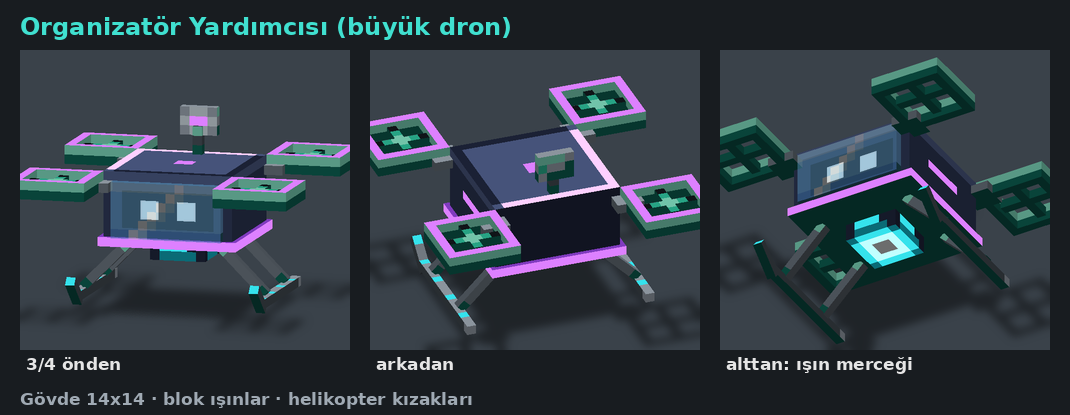
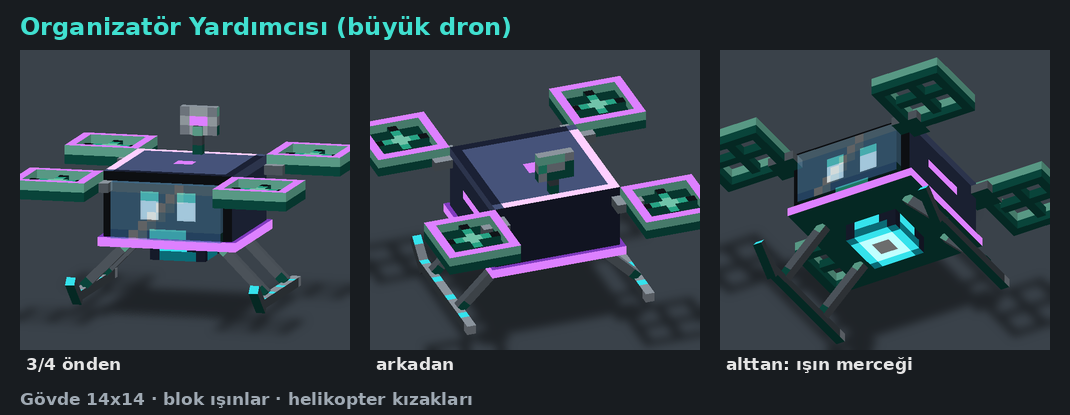
Bütün dronlarda çerçevesiz tam ekran yüz; Kılıçlı 2 piksellik kızgın gözler, yanaklar dış köşe altında
Claude-Session: https://claude.ai/code/session_016dSUtqjRQFdnbyLYXoqgnG

Changed region(s): [[0.0925, 0.4048, 0.2159, 0.5783], [0.7402, 0.2892, 0.8636, 0.4048], [0.7402, 0.4337, 0.8019, 0.4916]]

diff --git a/aqualit/tasarim/evcil.py b/aqualit/tasarim/evcil.py
@@ -48,13 +48,9 @@ from robot import plate, put, G
 
 
 def yuz6(renk='M', sert=False):
-    """Mimar dronundaki yüz (6x5): iki dik göz, gülen ağız, pembe yanaklar. sert: kısık gözler, düz ağız."""
-    g = plate(6, 5, renk, top='H', bottom='D', left='H', right='D')
-    put(g, ['WkkW', 'WkkW'] if not sert else ['kkkk', 'WkkW'], 1, 1)
-    g[3][2] = g[3][3] = 'k'
-    if sert:
-        g[3][1] = g[3][4] = 'R'      # kırmızı yanak işareti yalnız Kılıçlı'nın imzası
-    return g
+    """Çerçevesiz tam ekran yüz (6x5)."""
+    from ortak import YUZ6, YUZ6_SERT
+    return [list(r) for r in (YUZ6_SERT if sert else YUZ6)]
 
 
 def govde6(f, renk='M', sert=False, y0=3):
@@ -63,7 +59,7 @@ def govde6(f, renk='M', sert=False, y0=3):
     yan[2][2] = yan[2][3] = 'L'
     kutu(f, 'g', 'govde', (-3, y0, -3), (3, y0 + 5, 3), base=renk, front=yuz6(renk, sert), left=yan,
          right=[r[:] for r in yan], back=plate(6, 5, renk), top=plate(6, 6, 'L', top='H', bottom='M', left='H', right='M'),
-         glow='W')
+         glow='WL')
 
 
 def madenci(f):
@@ -183,15 +179,8 @@ def kilicli(f):
 
 def organizator(f, cam=True):
     # dik duran ince tablet (ekranı öne bakar); cam ekranın ardında Mimar dronundaki gibi gözler; üstte iki pervane
-    on = fill(8, 6, '1')
-    for x in range(8):
-        on[0][x] = '3'; on[5][x] = 'P'
-    for y in range(1, 5):
-        for x in range(1, 7):
-            on[y][x] = 'k'
-    put(on, ['WkkW', 'WkkW'], 2, 1)
-    on[3][3] = on[3][4] = 'k'
-    kutu(f, 'g', 'tablet', (-4, 3, -1), (4, 9, 1), base='1', front=on, glow='WP',
+    on = [list(r) for r in ('kkkkkkkk', 'kkLkkLkk', 'kkWkkWkk', 'kkWkkWkk', 'kkkLLkkk', 'kkkkkkkk')]
+    kutu(f, 'g', 'tablet', (-4, 3, -1), (4, 9, 1), base='1', front=on, glow='WLP',
          top=fill(8, 2, '3'), back=fill(8, 6, '2'))
     if cam:
         kutu(f, 'g', 'cam', (-3, 4, 1), (3, 8, 2), base='<', front=rows('~9~<<<', '<<<<<<', '<<<<<<', '^^^^^^'))
@@ -212,8 +201,8 @@ def portalci(f):
         kutu(f, 'halka', 'h_' + nm, aa, bb, base='ğ', glow='ğüÇ',
              front=[['ü' if (i + j) % 3 == 0 else 'ğ' for i in range(w_)] for j in range(h_)],
              back=[['ü' if (i + j) % 3 == 1 else 'ğ' for i in range(w_)] for j in range(h_)])
-    kutu(f, 'g', 'kure', (-2.5, 4.5, -2.5), (2.5, 8.5, 2.5), base='3', front=rows('33333', '3W3W3', '3W3W3', '33333'),
-         glow='Wü', top=rows('3üüü3', 'ü333ü', 'ü333ü', 'ü333ü', '3üüü3'))
+    kutu(f, 'g', 'kure', (-2.5, 4.5, -2.5), (2.5, 8.5, 2.5), base='3', front=rows('kkkkk', 'kWkWk', 'kWkWk', 'kkLkk'),
+         glow='WüL', top=rows('3üüü3', 'ü333ü', 'ü333ü', 'ü333ü', '3üüü3'))
     kutu(f, 'g', 'iz', (-0.5, 1, -0.5), (0.5, 2, 0.5), base='ü', glow='ü')
 
 

diff --git a/aqualit/tasarim/portalci.py b/aqualit/tasarim/portalci.py
@@ -30,14 +30,10 @@ def model_portalci(cam=True, t=0.0):
     f.bone('root', None, (0, 0, 0))
     f.bone('govde', 'root', (0, 10, 0))
     # gövde = robot kafası boyunda kutu (x -6..6, y 6..15, z -5..5)
-    on = fill(12, 9, 'M')
-    for x in range(12):
-        on[0][x] = 'H'; on[8][x] = 'D'
-    for y in range(2, 7):
-        for x in range(1, 11):
-            on[y][x] = 'k'
+    on = fill(12, 9, 'k')                 # çerçevesiz tam ekran, robot gözleri
     over(on, rows('LWL', 'WWW', 'WWW', 'LWL'), 2, 2)
     over(on, rows('LWL', 'WWW', 'WWW', 'LWL'), 7, 2)
+    over(on, rows('LL'), 5, 7)
     yan = fill(10, 9, 'M')
     for x in range(10):
         yan[0][x] = 'H'; yan[8][x] = 'D'
@@ -45,7 +41,7 @@ def model_portalci(cam=True, t=0.0):
     ust = panel(12, 10, 'L', t='H', b='M', l='H', r='M')
     over(ust, rows('ğğ', 'ğğ'), 5, 4)
     kutu(f, 'govde', 'govde', (-6, 6, -5), (6, 15, 5), base='M', front=on, left=yan, right=[r[:] for r in yan],
-         back=fill(12, 9, 'D'), top=ust, glow='Wğü')
+         back=fill(12, 9, 'D'), top=ust, glow='WLğü')
     # mor portal şeridi (gövdenin altında) ve alında portal taşı
     kutu(f, 'govde', 'serit', (-6.5, 6, -5.5), (6.5, 7, 5.5), base='ğ', glow='ğ', top=fill(13, 11, 'ş'))
     kutu(f, 'govde', 'alin', (-1, 13, 5), (1, 15, 6), base='ğ', glow='ğü', front=rows('üğ', 'ğş'))

diff --git a/aqualit/tasarim/yardimci.py b/aqualit/tasarim/yardimci.py
@@ -14,14 +14,10 @@ def yardimci(cam=True):
     f.bone('root', None, (0, 0, 0))
     f.bone('govde', 'root', (0, 10, 0))
     # gövde
-    on = fill(14, 8, '1')
-    for x in range(14):
-        on[0][x] = '3'; on[7][x] = '2'
-    for y in range(2, 6):
-        for x in range(2, 12):
-            on[y][x] = 'k'
-    over(on, rows('WW', 'WW'), 4, 3)        # gözler (camın ardında)
-    over(on, rows('WW', 'WW'), 8, 3)
+    on = fill(14, 8, 'k')                 # çerçevesiz tam ekran
+    over(on, rows('LL', 'WW', 'WW'), 4, 2)
+    over(on, rows('LL', 'WW', 'WW'), 8, 2)
+    over(on, rows('LLLL'), 5, 6)
     yan = fill(14, 8, '1')
     hline(yan, 0, '3') if False else None
     for x in range(14):
@@ -30,7 +26,7 @@ def yardimci(cam=True):
     ust = panel(14, 14, '3', t='Z', b='2', l='Z', r='2')
     over(ust, rows('PP', 'PP'), 6, 6)
     kutu(f, 'govde', 'govde', (-7, 6, -7), (7, 14, 7), base='1', front=on, left=yan, right=[r[:] for r in yan],
-         back=fill(14, 8, '2'), top=ust, glow='WPZ')
+         back=fill(14, 8, '2'), top=ust, glow='WLPZ')
     # mor şerit (Organizatör) ve yan ışıklar
     kutu(f, 'govde', 'serit', (-7.5, 6, -7.5), (7.5, 7, 7.5), base='P', glow='P', top=fill(15, 15, 'p'))
     # alt: ışın merceği (halka + parlayan iç) ve iki kıskaç

diff --git a/aqualit/addon/gen/dron.py b/aqualit/addon/gen/dron.py
@@ -31,11 +31,8 @@ BONE = {'govde': 'body', 'baret_kenar': 'hat', 'baret_tepe': 'hat', 'direk': 'ha
 
 
 def parts():
-    face = plate(6, 5, 'M', top='H', bottom='D', left='H', right='D')
-    put(face, ['WkkW', 'WkkW'], 1, 1)   # iki göz, arası koyu vizör
-    face[3][2] = 'k'                    # gülen ağız
-    face[3][3] = 'k'
-    # (v0.4: kırmızı yanaklar kaldırıldı; yalnız Kılıçlı'nın imzası)
+    # v0.4: çerçevesiz tam ekran yüz: dik ışıklı gözler (üstte parlama), küçük ışıklı gülüş; kırmızı yanak yok
+    face = [list(r) for r in ('kkkkkk', 'kLkkLk', 'kWkkWk', 'kWkkWk', 'kkLLkk')]
     side = plate(6, 5, 'M', top='H', bottom='D', left='L', right='D')
     side[2][2] = 'L'
     side[2][3] = 'L'
@@ -71,8 +68,8 @@ def parts():
 def glow(p, face, g):
     m = [[False] * len(g[0]) for _ in g]
     if p.name == 'govde' and face == 'front':
-        for y in range(1, 3):
-            for x in range(1, 5):
+        for y in range(len(g)):
+            for x in range(len(g[0])):
                 m[y][x] = g[y][x] in ('W', 'L')
     if p.name == 'itici' and face in ('bottom', 'front', 'back', 'left', 'right'):
         for y in range(len(g)):

diff --git a/aqualit/addon/gen/kesif_dron.py b/aqualit/addon/gen/kesif_dron.py
@@ -24,10 +24,10 @@ def model():
     f.bone('root', None, (0, 4.5, 0.5))
     f.bone('govde', 'root', (0, 4.5, 0.5))
     # gövde: 5x5x5 küp; önde ekran, ekranda iki dikey göz (1x2 piksel, ışıklı)
-    ekran = rows('HHHHH', 'HWkWH', 'HWkWH', 'HkkkH', 'DDDDD')
+    ekran = rows('kkkkk', 'kLkLk', 'kWkWk', 'kWkWk', 'kkLkk')   # v0.4: çerçevesiz tam ekran
     yan = panel(5, 5, 'M')
     hline(yan, 2, 'y', 0, 5)
-    add_box(f, 'govde', 'g_govde', (-2.5, 3, -2), (2.5, 8, 3), base='M', glow='W',
+    add_box(f, 'govde', 'g_govde', (-2.5, 3, -2), (2.5, 8, 3), base='M', glow='WL',
             **auto((-2.5, 3, -2), (2.5, 8, 3), base='M', front=ekran, side=yan, top=panel(5, 5, 'L', t='H', b='M', l='H', r='M')))
     add_box(f, 'govde', 'g_alt', (-1, 2, -0.5), (1, 3, 1.5), base='y', **auto((-1, 2, -0.5), (1, 3, 1.5), base='y'))
     add_box(f, 'govde', 'g_anten', (-0.5, 8, 0), (0.5, 10, 1), base='&', **auto((-0.5, 8, 0), (0.5, 10, 1), base='&', top=rows('R')))

diff --git a/aqualit/tasarim/ortak.py b/aqualit/tasarim/ortak.py
@@ -107,3 +107,16 @@ def kizak(f, bone, x, y0, y1, z, govde_x=None, isik='ö'):
 
 KIZAK_ISARET = -1
 UC_ACI = -40
+
+
+# v0.4: dron yüzleri: çerçevesiz, baştan başa koyu ekran
+YUZ6 = ['kkkkkk',
+        'kLkkLk',
+        'kWkkWk',
+        'kWkkWk',
+        'kkLLkk']          # dik ışıklı gözler (üstte parlama), küçük ışıklı gülüş
+YUZ6_SERT = ['kkkkkk',
+             'Wkkkkw'.replace('w', 'W'),
+             'kWkkWk',
+             'RkkkkR',
+             'kkkkkk']     # Kılıçlı: 2 piksellik kızgın (içe eğik) gözler, yanaklar gözün dış köşesi altında
